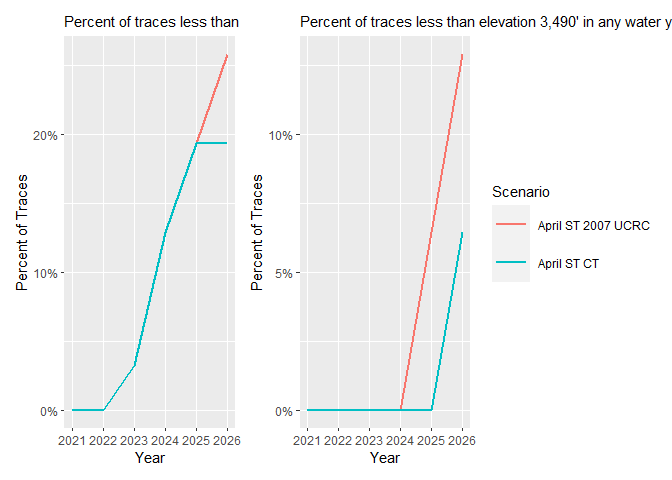
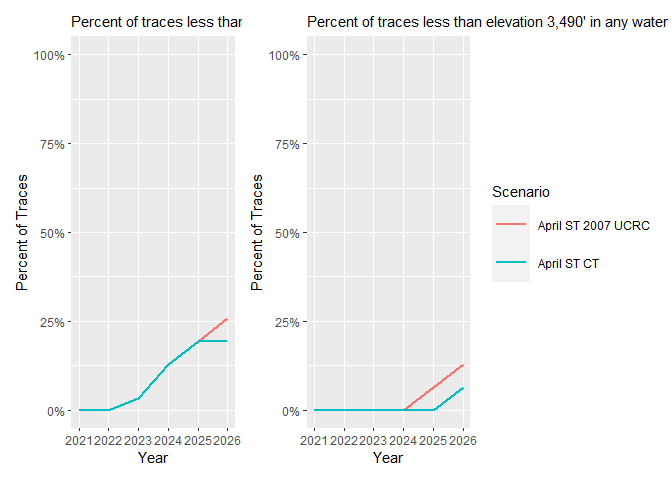
prob plot goes 0 to 1

diff --git a/README.md b/README.md
@@ -49,6 +49,7 @@ truncated/sample set of them.
 
 ``` r
 library(crssplot)
+library(ggplot2)
 library(patchwork)
 # ex_pe is sample data frame that comes from RWDataPlyr and running the 
 # automated process above
@@ -65,12 +66,14 @@ p1 <- scens_plot_probs(
   ex_pe, years = 2021:2026,
   vars = "powell_wy_min_lt_3525", 
   subtitle = "Percent of traces less than elevation 3,525' in any water year"
-)
+) +
+  expand_limits(y = c(0, 1))
 p2 <- scens_plot_probs(
   ex_pe, years = 2021:2026,
   vars = "powell_wy_min_lt_3490", 
   subtitle = "Percent of traces less than elevation 3,490' in any water year"
-)
+) +
+  expand_limits(y = c(0, 1))
 
 p1 + p2 +
   plot_layout(guides = "collect")
